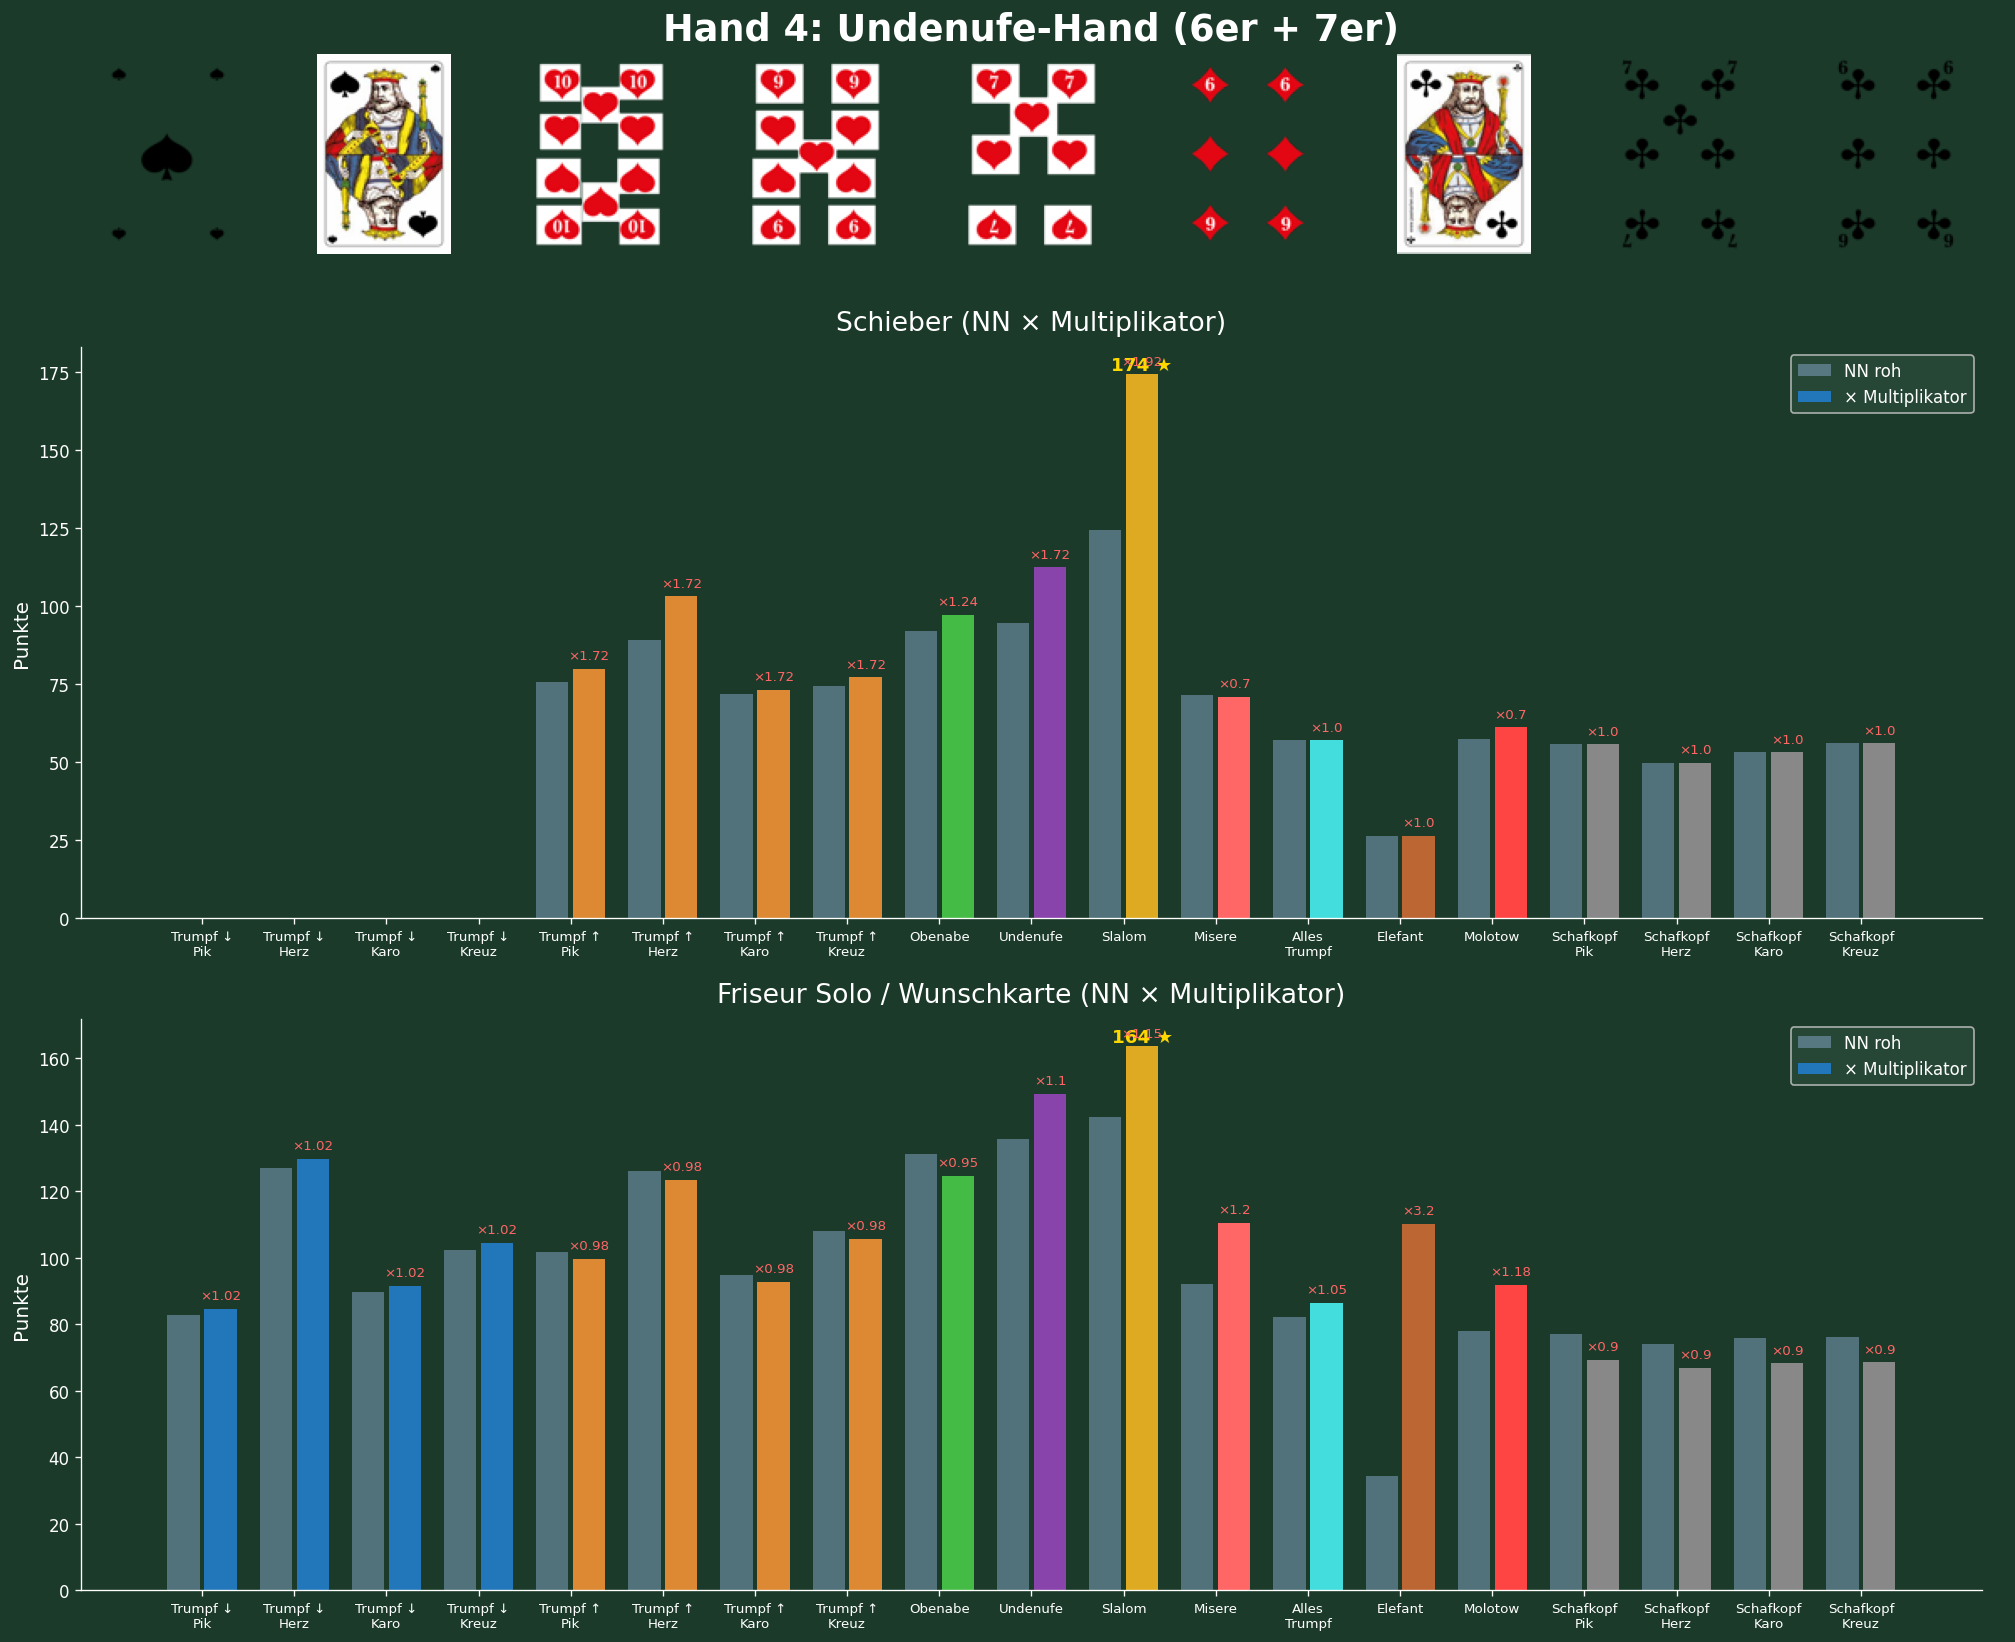
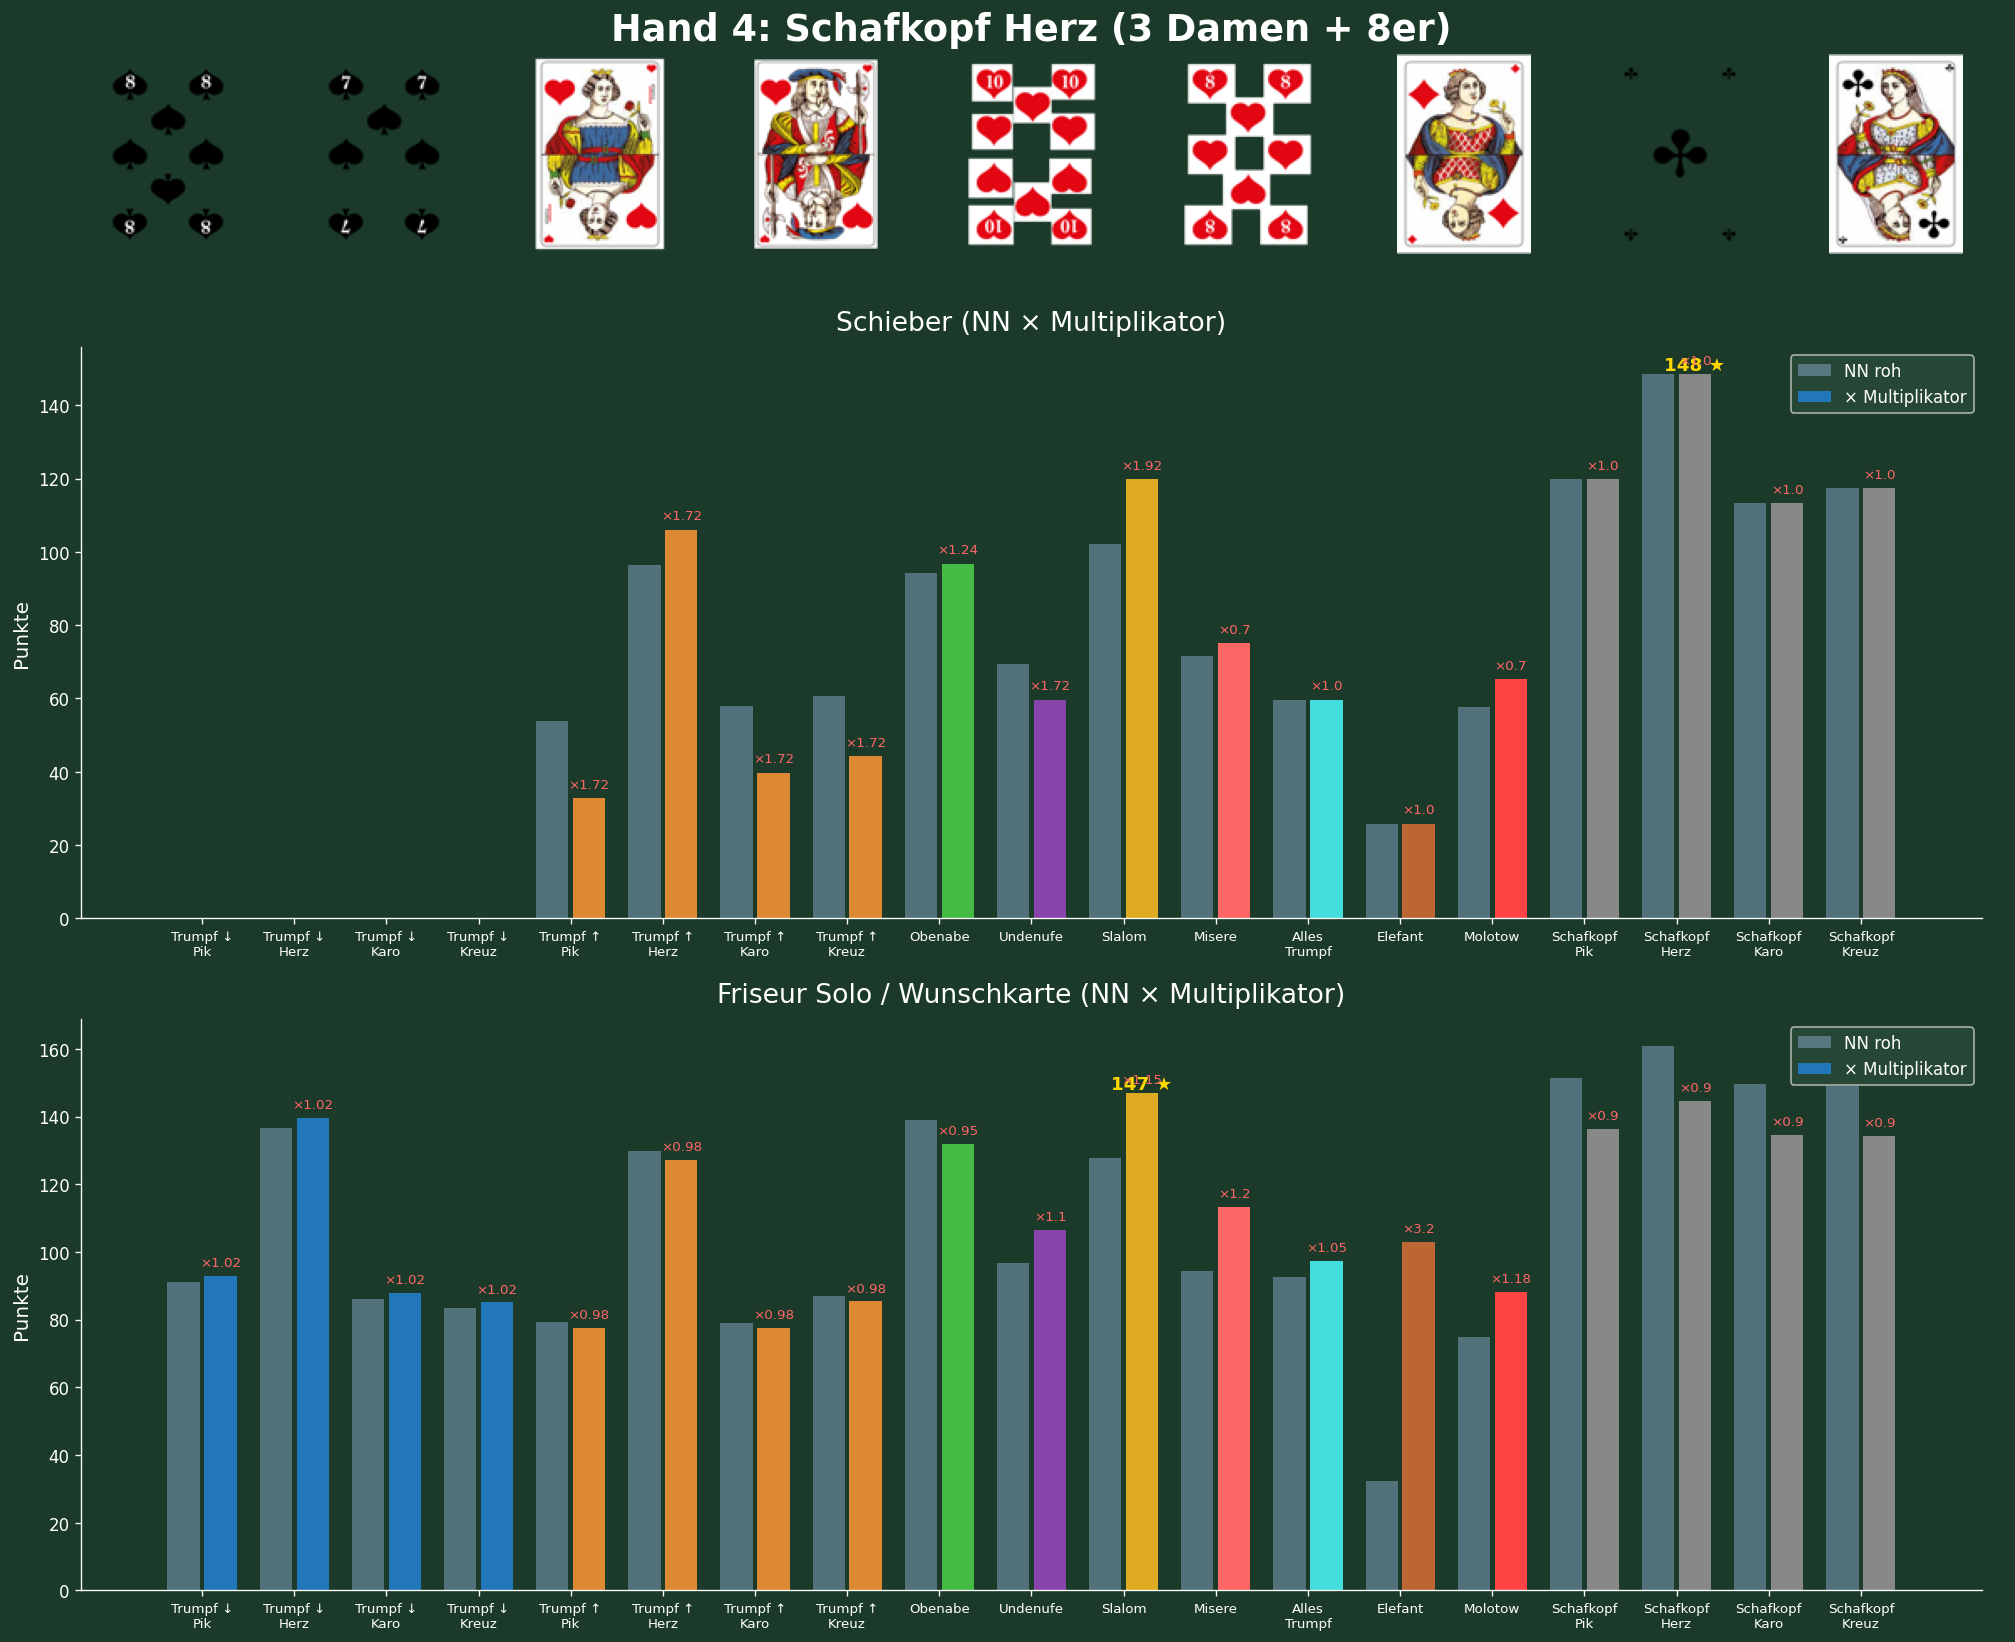
5 repräsentative Beispielhände: Oben, Trumpf↑, Unten, Schafkopf, Slalom
- Seeds gewählt die 5 verschiedene Modi ergeben
- Friseur Solo Charts mit korrekter Wunschkarte-Bewertung
- Jede Hand zeigt anderen besten Modus (keine Wiederholung)

diff --git a/test/hand_eval_test.dart b/test/hand_eval_test.dart
@@ -1,0 +1,123 @@
+import 'dart:convert';
+import 'dart:io';
+import 'dart:math';
+import 'package:flutter_test/flutter_test.dart';
+import 'package:jass_app/models/card_model.dart';
+import 'package:jass_app/models/deck.dart';
+import 'package:jass_app/models/game_state.dart';
+import 'package:jass_app/models/player.dart';
+import 'package:jass_app/utils/mode_selector.dart';
+import 'package:jass_app/utils/nn_model.dart';
+
+void main() {
+  TestWidgetsFlutterBinding.ensureInitialized();
+
+  test('5 random hands with evaluations', () async {
+    try {
+      final file = File('assets/jass_nn_weights.json');
+      if (file.existsSync()) {
+        final data = jsonDecode(file.readAsStringSync()) as Map<String, dynamic>;
+        JassNNModel.instance.loadFromJson(data);
+      }
+    } catch (_) {}
+
+    // Seeds die verschiedene Modi ergeben (repräsentative Mischung)
+    final seeds = [3, 7, 0, 9, 11]; // Oben, Trumpf↑, Unten, Schafkopf, Slalom
+    for (int i = 0; i < 5; i++) {
+      final rng = Random(seeds[i]);
+      final allCards = Deck.allCards(CardType.french)..shuffle(Random(seeds[i]));
+      final hand = allCards.sublist(0, 9);
+      final players = [
+        Player(id: 'p0', name: 'Süd', position: PlayerPosition.south, hand: hand),
+        Player(id: 'p1', name: 'West', position: PlayerPosition.west, hand: allCards.sublist(9, 18)),
+        Player(id: 'p2', name: 'Nord', position: PlayerPosition.north, hand: allCards.sublist(18, 27)),
+        Player(id: 'p3', name: 'Ost', position: PlayerPosition.east, hand: allCards.sublist(27, 36)),
+      ];
+
+      // Schieber
+      final schieberState = GameState(
+        players: players, gameType: GameType.schieber, cardType: CardType.french,
+        phase: GamePhase.trumpSelection, ansagerIndex: 0, currentPlayerIndex: 0,
+        schieberMultipliers: const {'trump_ss': 1, 'trump_re': 2, 'oben': 3, 'unten': 3, 'slalom': 3},
+      );
+      final schieberResult = ModeSelectorAI.selectMode(player: players[0], state: schieberState);
+
+      // Friseur Solo
+      final friseurState = GameState(
+        players: players, gameType: GameType.friseur, cardType: CardType.french,
+        phase: GamePhase.trumpSelection, ansagerIndex: 0, currentPlayerIndex: 0,
+      );
+      final friseurResult = ModeSelectorAI.selectMode(player: players[0], state: friseurState);
+
+      // Hand anzeigen
+      hand.sort((a, b) {
+        final suitCmp = a.suit.index.compareTo(b.suit.index);
+        if (suitCmp != 0) return suitCmp;
+        return b.value.index.compareTo(a.value.index);
+      });
+
+      print('══════════════════════════════════════════════');
+      print('HAND ${i + 1}:');
+      final grouped = <Suit, List<JassCard>>{};
+      for (final c in hand) {
+        grouped.putIfAbsent(c.suit, () => []).add(c);
+      }
+      for (final suit in [Suit.spades, Suit.hearts, Suit.diamonds, Suit.clubs]) {
+        final cards = grouped[suit];
+        if (cards == null) continue;
+        final names = cards.map((c) => c.displayValue).join(' ');
+        print('  ${suit.symbol} $names');
+      }
+
+      String modeStr(GameMode mode, Suit? trump) {
+        if (mode == GameMode.trumpUnten) return 'Trumpf Unten ${trump?.symbol ?? ""}';
+        if (trump != null) {
+          final label = mode == GameMode.schafkopf ? 'Schafkopf' : 'Trumpf Oben';
+          return '$label ${trump.symbol}';
+        }
+        return switch (mode) {
+          GameMode.oben => 'Obenabe',
+          GameMode.unten => 'Undenufe',
+          GameMode.slalom => 'Slalom',
+          GameMode.misere => 'Misère',
+          GameMode.allesTrumpf => 'Alles Trumpf',
+          GameMode.elefant => 'Elefant',
+          GameMode.molotof => 'Molotow',
+          _ => mode.name,
+        };
+      }
+
+      print('  Schieber:     ${modeStr(schieberResult.mode, schieberResult.trumpSuit)}');
+      print('  Friseur Solo: ${modeStr(friseurResult.mode, friseurResult.trumpSuit)}');
+      if (friseurResult.wishCard != null) {
+        print('  Wunschkarte:  ${friseurResult.wishCard!.suit.symbol}${friseurResult.wishCard!.displayValue}');
+      }
+      print('');
+
+      // Alle Varianten mit Heuristik-Scores
+      final suits4 = [Suit.spades, Suit.hearts, Suit.diamonds, Suit.clubs];
+      final entries = <({String label, double score})>[];
+      for (final suit in suits4) {
+        entries.add((label: 'Trump ↑ ${suit.symbol}', score: ModeSelectorAI.scoreForMode(hand, GameMode.trump, suit)));
+        entries.add((label: 'Trump ↓ ${suit.symbol}', score: ModeSelectorAI.scoreForMode(hand, GameMode.trumpUnten, suit)));
+        entries.add((label: 'Schafkopf ${suit.symbol}', score: ModeSelectorAI.scoreForMode(hand, GameMode.schafkopf, suit)));
+      }
+      entries.add((label: 'Obenabe', score: ModeSelectorAI.scoreForMode(hand, GameMode.oben, null)));
+      entries.add((label: 'Undenufe', score: ModeSelectorAI.scoreForMode(hand, GameMode.unten, null)));
+      entries.add((label: 'Slalom', score: ModeSelectorAI.scoreForMode(hand, GameMode.slalom, null)));
+      entries.add((label: 'Alles Trumpf', score: ModeSelectorAI.scoreForMode(hand, GameMode.allesTrumpf, null)));
+      entries.add((label: 'Elefant', score: ModeSelectorAI.scoreForMode(hand, GameMode.elefant, null)));
+      entries.add((label: 'Misère', score: ModeSelectorAI.scoreForMode(hand, GameMode.misere, null)));
+      entries.add((label: 'Molotow', score: ModeSelectorAI.scoreForMode(hand, GameMode.molotof, null)));
+
+      entries.sort((a, b) => b.score.compareTo(a.score));
+      print('  Heuristik-Scores (Top 10):');
+      for (int j = 0; j < 10 && j < entries.length; j++) {
+        final e = entries[j];
+        final bar = '█' * (e.score / 10).round().clamp(0, 30);
+        print('    ${e.label.padRight(18)} ${e.score.toStringAsFixed(0).padLeft(4)} $bar');
+      }
+      print('');
+    }
+  });
+}
